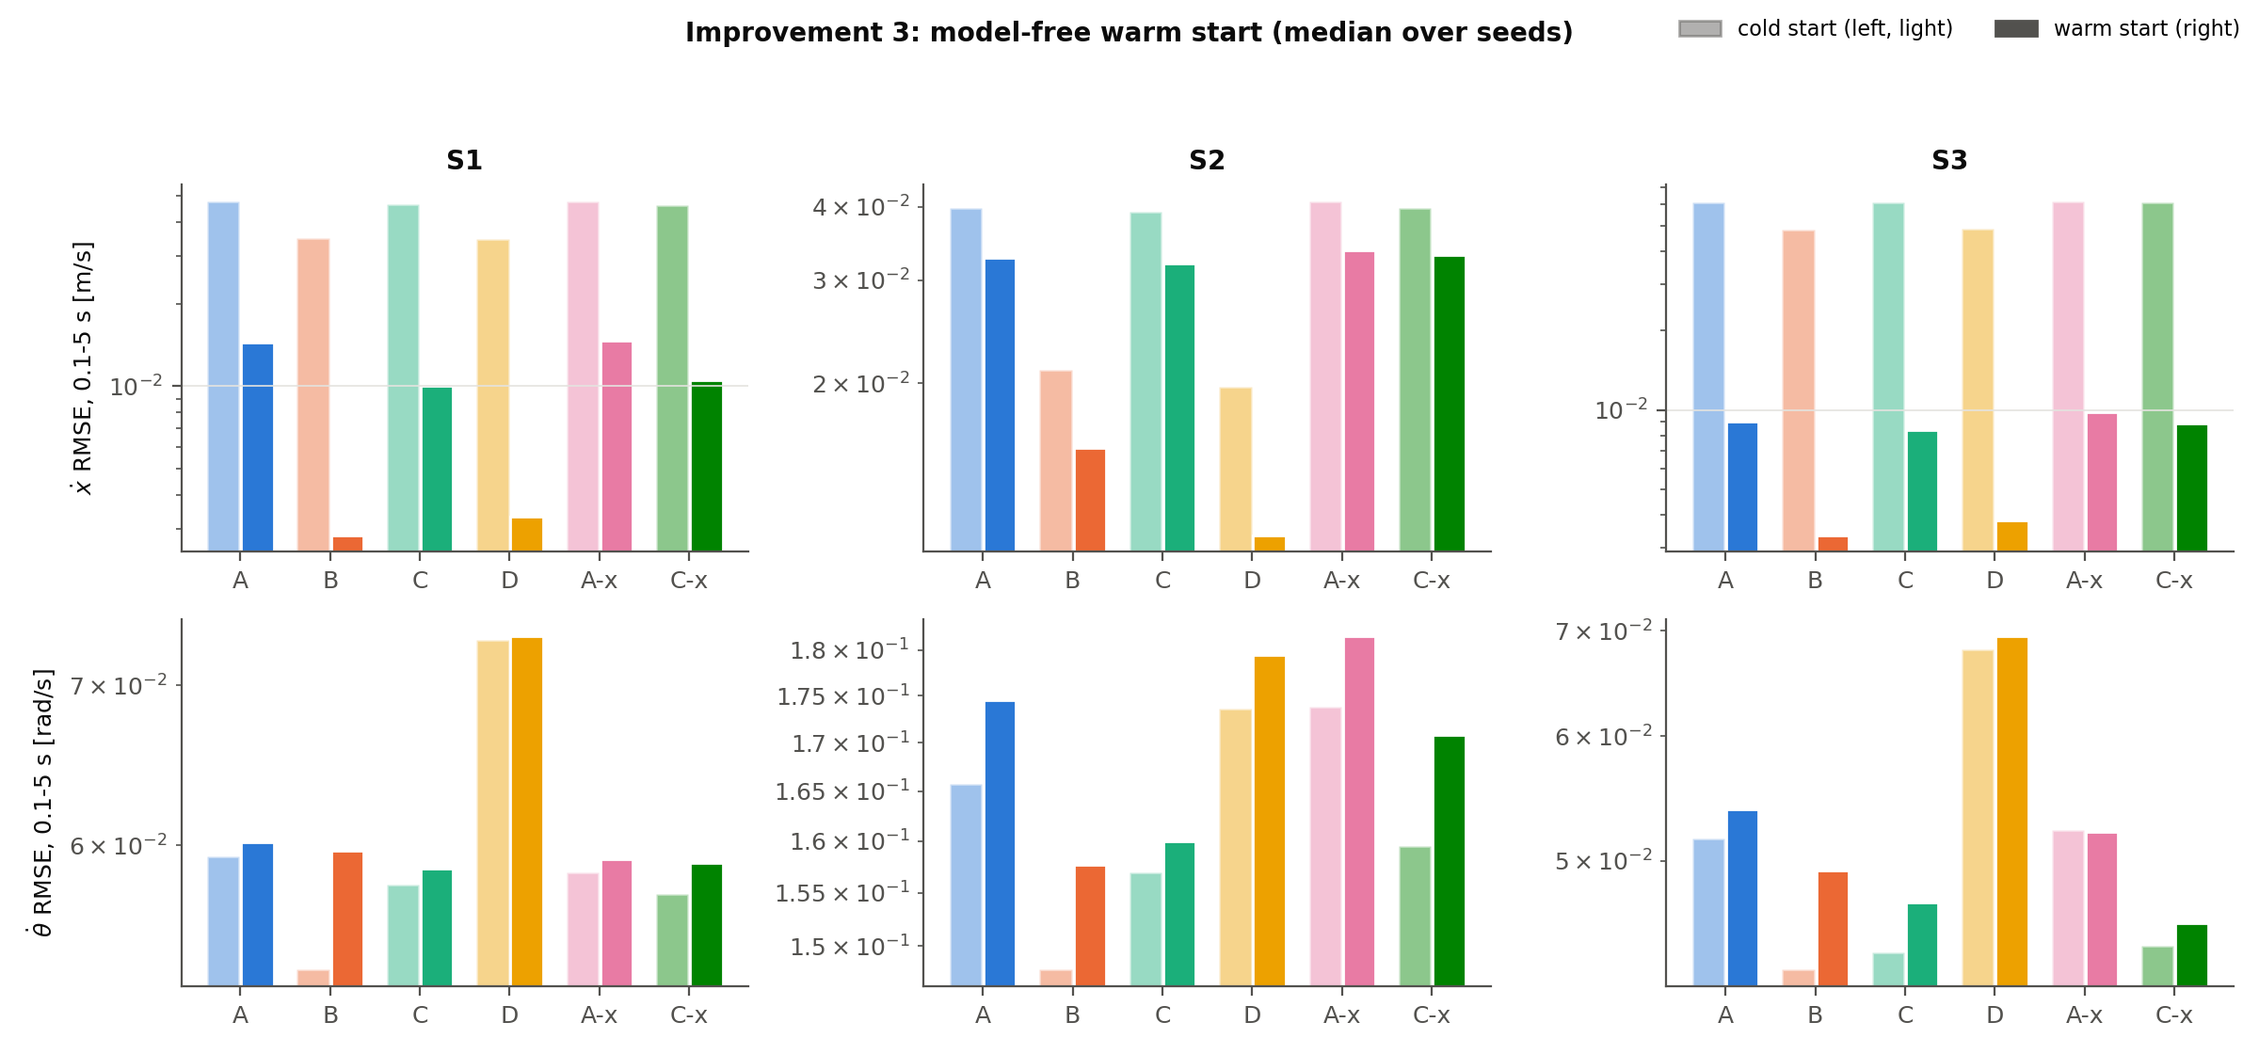
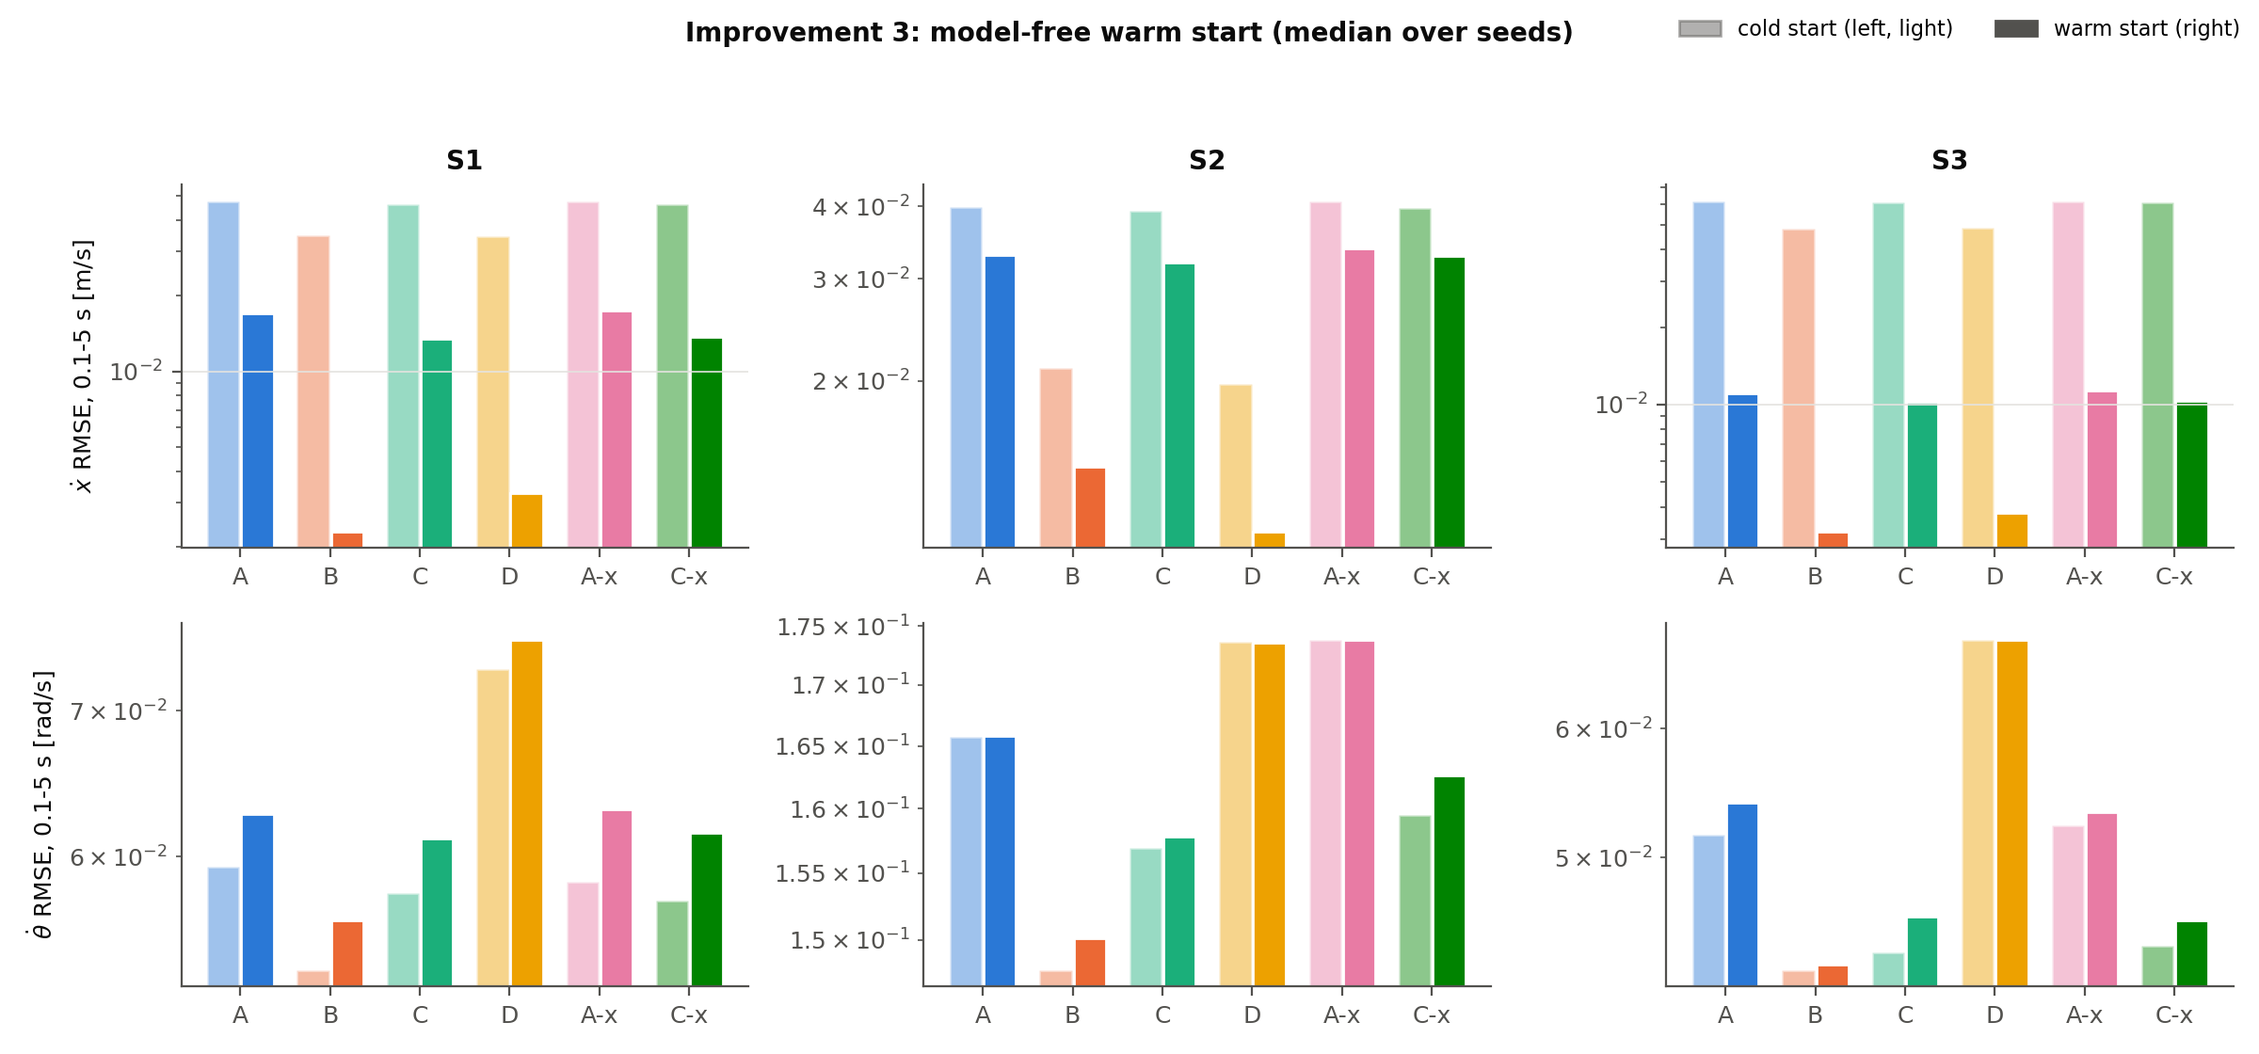
fix(benchmark): warm start as gated state injection; final warm-start results
- The warm start no longer resets the observer: it runs the observer from t = 0 and, at 0.1 s,
  injects the fitted position and velocity of each coordinate whose fitted velocity is
  significant (> 3 sigma from the fit residual), re-initializing only that coordinate's
  auxiliary filter. Other coordinates, LSTM memories and weights are untouched.
- Result (90 runs, 2 workers): cart velocity transient error 1.2-15x lower, peak 1.5-27x lower;
  pendulum neutral on S2/S3, 3-8 % worse on S1 (documented, with the design history of the
  three versions that did not work).
- --warm-only mode reruns only the warm-start runs and merges them into the saved results.

diff --git a/src/benchmark/warm_start.py b/src/benchmark/warm_start.py
@@ -1,21 +1,26 @@
 """
-Improvement 3: model-free warm start of any observer.
+Improvement 3: model-free velocity injection for any observer ("warm start").
 
-Every observer starts from q_hat(0) = y(0), q_dot_hat(0) = 0. When the plant is already moving
-at t = 0 (the drift-cancelling cart velocity of scenarios S1-S3, for example), the observer must
-first absorb that velocity error through its filter. The wrapper buffers the first `window`
-seconds of encoder data, fits a degree-`order` polynomial by least squares and evaluates it and
-its derivative at the LAST sample (causal Savitzky-Golay end-point estimate); the wrapped
-observer is then reset to [q_fit, q_dot_fit] and runs normally from the next sample on.
+Every observer starts from q_hat(0) = y(0), q_dot_hat(0) = 0. When a coordinate is already moving
+at t = 0 (the drift-cancelling cart velocity of scenarios S1-S3), the observer must first absorb
+that velocity error through its filter.
 
-Significance gate. A coordinate that starts at rest gains nothing from the fit and would only
-receive its noise (sigma_v = sigma_q ||c_1||, with sigma_q estimated from the fit residual). Each
-fitted velocity is therefore kept only if |q_dot_fit| > z sigma_v (default z = 3) and set to 0
-otherwise, the value an unwrapped observer starts from. During
-the buffering window the wrapper reports [y, 0], exactly what an unwrapped observer starts from.
+The wrapper runs the observer normally from the first sample and, in parallel, buffers the first
+`window` seconds of encoder data. At the end of the window it fits a degree-`order` polynomial by
+least squares and differentiates it at the last sample (causal Savitzky-Golay end-point estimate).
+For each coordinate the fitted position and velocity are injected into the observer's estimate only
+if the velocity is significant, |q_dot_fit| > z sigma_v, where sigma_v = sigma_q ||c_1|| and sigma_q is estimated
+from the fit residual. For an injected coordinate the auxiliary filter (p, nu), which by then
+encodes the velocity error the observer has been absorbing, is re-initialized exactly as at
+start-up (p = (alpha + k_r) q_tilde, nu = 0, i.e. eta = 0), so it does not keep "correcting" an
+error that the injection removed. Coordinates that fail the test are left exactly as the observer
+has them; LSTM memories and weights are never touched.
 
-The wrapper touches neither the observer's dynamics nor its adaptation, so every stability
-argument of the wrapped observer applies from the reset on.
+Design history (shared-benchmark README, Section 5): resetting the whole observer at the end of the
+window, with or without the significance test, helped the moving coordinate but made the resting
+one worse: the reset discarded the observer's first `window` seconds of adaptation and restarted
+its filter transient. Injecting only the significant velocities leaves every other observer state,
+filter state and weight untouched.
 """
 
 from __future__ import annotations
@@ -27,37 +32,59 @@ from src.benchmark.models import Observer
 from src.concurrent_learning.savitzky_golay import SavitzkyGolay
 
 
+def _state_attributes(observer: Observer) -> tuple[str, str, str]:
+    """(position estimate, velocity estimate, filter state p) attribute names."""
+    if hasattr(observer, "x2_hat"):                 # A / C (LbLSTMObserver)
+        return "x1_hat", "x2_hat", "p"
+    if hasattr(observer, "p_f"):                    # D (PIICLObserver)
+        return "q_hat", "q_dot_hat", "p_f"
+    if hasattr(observer, "q_dot_hat"):              # B (PILSTMObserver)
+        return "q_hat", "q_dot_hat", "p"
+    raise TypeError(f"{type(observer).__name__} exposes no velocity estimate.")
+
+
 class WarmStartObserver:
     def __init__(self, observer: Observer, dt: float, window: float = 0.1, order: int = 2, z_gate: float = 3.0) -> None:
         self.inner = observer
         self.z_gate = z_gate
         self.sg = SavitzkyGolay.from_duration(window, order, dt, evaluate_at="end")
+        self._pos_attr, self._vel_attr, self._p_attr = _state_attributes(observer)
         self._buf: List[np.ndarray] = []
         self.started = False
-        self.initial_estimate: np.ndarray | None = None
+        self.initial_estimate: np.ndarray | None = None    # fitted [q, q_dot] (interleaved)
+        self.injected: np.ndarray | None = None            # per coordinate: velocity injected?
+        self.sigma_v: np.ndarray | None = None
 
     def reset(self, initial_state: np.ndarray | None = None, reset_weights: bool = True) -> None:
+        self.inner.reset(initial_state, reset_weights)
         self._buf = []
         self.started = False
 
     def update(self, y: np.ndarray, u: float | np.ndarray, dt: float) -> np.ndarray:
         y = np.asarray(y, dtype=np.float64)
+        est = self.inner.update(y, u, dt)
         if self.started:
-            return self.inner.update(y, u, dt)
+            return est
         self._buf.append(y.copy())
         if len(self._buf) < self.sg.window:
-            return np.column_stack((y, np.zeros_like(y))).ravel()
+            return est
         Y = np.vstack(self._buf)
         q, qd = self.sg.apply(Y, 0), self.sg.apply(Y, 1)
-        # residual of the fitted polynomial -> measurement-noise estimate per coordinate
         tau = (np.arange(self.sg.window) - (self.sg.window - 1)) * self.sg.dt
         V = np.vander(tau, self.sg.order + 1, increasing=True)
         coef = np.linalg.lstsq(V, Y, rcond=None)[0]
         dof = max(self.sg.window - self.sg.order - 1, 1)
         sigma_q = np.sqrt(np.sum((Y - V @ coef) ** 2, axis=0) / dof)
-        self.sigma_v = sigma_q * self.sg.noise_gain(1)
-        qd = np.where(np.abs(qd) > self.z_gate * self.sigma_v, qd, 0.0)
+        sigma_v = sigma_q * self.sg.noise_gain(1)
+        inj = np.abs(qd) > self.z_gate * sigma_v
+        self.sigma_v, self.injected = sigma_v, inj
         self.initial_estimate = np.column_stack((q, qd)).ravel()
-        self.inner.reset(self.initial_estimate)
+        obs = self.inner
+        getattr(obs, self._pos_attr)[inj] = q[inj]      # the lagging position estimate as well
+        getattr(obs, self._vel_attr)[inj] = qd[inj]
+        cfg = obs.config  # type: ignore[attr-defined]
+        q_tilde = y - getattr(obs, self._pos_attr)
+        getattr(obs, self._p_attr)[inj] = (cfg.alpha + cfg.k_r) * q_tilde[inj]
+        obs.nu[inj] = 0.0  # type: ignore[attr-defined]
         self.started = True
-        return self.initial_estimate.copy()
+        return self.inner.state_estimate()  # type: ignore[attr-defined]

diff --git a/experiments/run_shared_benchmark.py b/experiments/run_shared_benchmark.py
@@ -180,6 +180,8 @@ def main() -> None:
     parser.add_argument("--workers", type=int, default=min(8, os.cpu_count() or 1))
     parser.add_argument("--no-plots", action="store_true")
     parser.add_argument("--plots-only", action="store_true", help="redraw the figures from the saved CSVs")
+    parser.add_argument("--warm-only", action="store_true",
+                        help="rerun only the warm-start runs and merge them into the saved CSVs (after a warm-start change)")
     args = parser.parse_args()
     res_dir = ROOT_DIR / "results" / "shared_benchmark"
     fig_dir = ROOT_DIR / "figures" / "shared_benchmark"
@@ -187,6 +189,9 @@ def main() -> None:
         runs = pd.read_csv(res_dir / "velocity_runs.csv")
         twins = pd.read_csv(res_dir / "held_out_twins.csv")
         make_figures(runs, twins, fig_dir)
+        return
+    if args.warm_only:
+        rerun_warm(args.seeds, args.workers, res_dir, fig_dir, plots=not args.no_plots)
         return
 
     jobs = [(s, m, seed, w) for s in SCENARIOS for m in MODELS for seed in range(args.seeds) for w in (False, True)]
@@ -242,6 +247,34 @@ def main() -> None:
     if not args.no_plots:
         make_figures(runs, twins, fig_dir)
     print(f"Results: {res_dir}")
+
+
+WARM_COLS = ["RMSE x_dot transient", "RMSE th_dot transient", "peak x_dot err 0.1-2 s", "peak th_dot err 0.1-2 s", "RMSE th_dot steady"]
+
+
+def warm_summary(runs: pd.DataFrame) -> pd.DataFrame:
+    wt = runs.groupby(["scenario", "model", "warm start"])[WARM_COLS].median().unstack("warm start")
+    for c in WARM_COLS:
+        wt[(c, "ratio")] = wt[(c, True)] / wt[(c, False)]
+    return wt
+
+
+def rerun_warm(seeds: int, workers: int, res_dir: Path, fig_dir: Path, plots: bool) -> None:
+    jobs = [(s, m, seed, True) for s in SCENARIOS for m in MODELS for seed in range(seeds)]
+    t0 = time.time()
+    with ProcessPoolExecutor(workers) as ex:
+        rows = [r for out in ex.map(job, jobs) for r in out]
+    print(f"{len(jobs)} warm-start runs in {time.time() - t0:.0f} s")
+    runs = pd.read_csv(res_dir / "velocity_runs.csv")
+    runs["warm start"] = runs["warm start"].astype(bool)
+    runs = pd.concat([runs[~runs["warm start"]], pd.DataFrame(rows)], ignore_index=True)
+    runs.to_csv(res_dir / "velocity_runs.csv", index=False)
+    wt = warm_summary(runs)
+    wt.to_csv(res_dir / "warm_start_summary.csv")
+    with pd.option_context("display.width", 250, "display.float_format", "{:.4f}".format):
+        print(wt[[(c, "ratio") for c in WARM_COLS]].to_string())
+    if plots:
+        make_figures(runs, pd.read_csv(res_dir / "held_out_twins.csv"), fig_dir)
 
 
 def make_figures(runs: pd.DataFrame, twins: pd.DataFrame, fig_dir: Path) -> None:

diff --git a/tests/test_shared_benchmark.py b/tests/test_shared_benchmark.py
@@ -96,8 +96,7 @@ def test_el_twin_with_true_parameters_is_exact() -> None:
 
 
 def test_warm_start_removes_the_initial_velocity_error() -> None:
-    p = PendulumParameters()
-    d = simulate("ramp", lambda t: 0.0, 1.0, np.array([0.0, -0.5, np.pi, 0.0]), 0.5, 1)
+    d = simulate("drift", lambda t: 0.0, 1.0, np.array([0.0, -0.5, np.pi, 0.0]), 0.5, 1)
     cold = make_observer("D", d, 0)
     warm = WarmStartObserver(make_observer("D", d, 0), DT)
     for o in (cold, warm):
@@ -107,19 +106,22 @@ def test_warm_start_removes_the_initial_velocity_error() -> None:
         e_cold.append(cold.update(d.meas[k], d.u[k], DT)[1] - d.state[k, 1])
         e_warm.append(warm.update(d.meas[k], d.u[k], DT)[1] - d.state[k, 1])
     k0 = warm.sg.window
-    assert warm.started and warm.initial_estimate is not None
-    assert abs(warm.initial_estimate[1] - d.state[k0 - 1, 1]) < 0.01
+    assert warm.started and warm.initial_estimate is not None and warm.injected is not None
+    assert warm.injected[0] and abs(warm.initial_estimate[1] - d.state[k0 - 1, 1]) < 0.01
     assert np.max(np.abs(e_warm[k0:])) < 0.1 * np.max(np.abs(e_cold[k0:]))
-    assert p.M > 0
 
 
-def test_warm_start_gate_keeps_a_resting_coordinate_at_zero() -> None:
-    """The pendulum starts at rest: its fitted velocity is noise and must be gated to 0."""
+def test_warm_start_leaves_a_resting_coordinate_untouched() -> None:
+    """The pendulum is at rest: its fitted velocity is noise, is not injected, and its estimate
+    evolves exactly as without the wrapper."""
     d = simulate("rest", lambda t: 0.0, 0.3, np.array([0.0, -0.5, np.pi, 0.0]), 1.0, 3)
+    cold = make_observer("D", d, 0)
     warm = WarmStartObserver(make_observer("D", d, 0), DT)
-    warm.reset()
+    for o in (cold, warm):
+        o.reset(np.array([d.meas[0, 0], 0.0, d.meas[0, 1], 0.0]))
     for k in range(warm.sg.window):
-        warm.update(d.meas[k], 0.0, DT)
-    assert warm.initial_estimate is not None
-    assert warm.initial_estimate[3] == 0.0                   # theta_dot gated
-    assert abs(warm.initial_estimate[1] + 0.5) < 0.01        # x_dot kept
+        ec = cold.update(d.meas[k], 0.0, DT)
+        ew = warm.update(d.meas[k], 0.0, DT)
+    assert warm.injected is not None and warm.injected[0] and not warm.injected[1]
+    assert ew[3] == ec[3]                                    # theta_dot untouched
+    assert abs(ew[1] + 0.5) < 0.01                           # x_dot injected

diff --git a/README.md b/README.md
@@ -146,46 +146,55 @@ input scale to 0 (the A-x and C-x variants).
 
 Every observer starts from $\hat q = y(0)$ and $\hat{\dot q} = 0$. In all three scenarios the
 cart starts moving, at the drift-cancelling velocity, while the pendulum starts at rest.
-`src/benchmark/warm_start.py` works as follows:
+`src/benchmark/warm_start.py` wraps any observer:
 
-1. **Buffer.** It holds the first 0.1 s of encoder data.
-2. **Fit.** It fits a quadratic and differentiates it at the last sample (a causal
-   Savitzky–Golay end-point estimate).
-3. **Gate.** It keeps each fitted velocity only if it exceeds 3σ of its own noise, estimated
-   from the fit residual.
-4. **Hand over.** It resets the wrapped observer to that state.
+1. **Run the observer normally from the first sample**, and buffer the first 0.1 s of encoder data.
+2. **Fit.** Fit a quadratic and differentiate it at the last sample (a causal Savitzky–Golay
+   end-point estimate).
+3. **Gate.** For each coordinate, test whether the fitted velocity is significant:
+   $|\dot q_{fit}| > 3\sigma_v$, with $\sigma_v$ taken from the fit residual.
+4. **Inject.** For significant coordinates only, overwrite the position and velocity estimates
+   with the fit, and re-initialize that coordinate's auxiliary filter exactly as at start-up
+   ($p = (\alpha + k_r)\tilde q$, $\nu = 0$).
 
-The wrapper never touches the observer's dynamics or adaptation, so every stability argument
-still holds from the reset on.
+Nothing else is touched: not the other coordinate, not the LSTM memories, not the weights. The
+wrapper amounts to a new initial condition for part of the observer state, so every stability
+argument still applies.
 
-**Status.** The benchmark numbers below come from the version *without* step 3, the
-significance gate. They show why the gate was added. The gated version is implemented and
-unit-tested (`test_warm_start_gate_keeps_a_resting_coordinate_at_zero`), but its 5-seed rerun
-was stopped before it finished, to spare the laptop. To reproduce it, run
-`python experiments/run_shared_benchmark.py --workers 2`.
+**Design history (what did not work).** Each earlier version was benchmarked on all 90
+warm-start runs:
 
-Warm / cold ratio of the median over 5 seeds, ungated version (below 1 = warm start is better):
+| Version | Cart channel | Pendulum channel |
+|:---|:---|:---|
+| (a) Reset the whole observer to the fit at 0.1 s | Much better | Worse: θ̇ RMSE up to +16 %, peak up to +27 %. The reset threw away 0.1 s of adaptation and restarted the filter transient, and the fitted θ̇ is noise when the pendulum is at rest. |
+| (b) As (a), plus the 3σ significance gate | Much better | Unchanged from (a), peak up to +33 %. By 0.1 s the pendulum is already moving, so the gated zero was wrong too. |
+| (c) Inject the velocity only, keeping the observer running | The error re-grew to about 0.2 m/s | Filter states still encoded the old error, and the position estimate still lagged. |
+| **(d) Current: inject position and velocity, re-initialize that coordinate's filter** | **Error stays below 0.02 m/s after injection** | See the table below |
 
-| | ẋ RMSE 0.1–5 s | peak ẋ error 0.1–2 s | θ̇ RMSE 0.1–5 s | peak θ̇ error 0.1–2 s | steady θ̇ RMSE |
+**Result of (d).** Warm / cold ratio of the median over 5 seeds (below 1 = warm start is
+better):
+
+| | ẋ RMSE 0.1–5 s | Peak ẋ error 0.1–2 s | θ̇ RMSE 0.1–5 s | Peak θ̇ error 0.1–2 s | Steady θ̇ RMSE |
 |:---|:---:|:---:|:---:|:---:|:---:|
-| S1 (all 6 models) | 0.08–0.31 | 0.03–0.16 | 1.00–1.12 | 1.02–1.13 | 0.93–1.18 |
-| S2 | 0.56–0.83 | 0.25–0.65 | 1.02–1.07 | 1.00–1.07 | 0.93–1.07 |
-| S3 | 0.07–0.16 | 0.04–0.08 | 1.00–1.16 | 1.13–1.27 | 1.00–1.04 |
+| S1 (all 6 models) | 0.07–0.37 | 0.04–0.21 | 1.03–1.08 | 1.12–1.14 | 0.90–1.07 |
+| S2 | 0.56–0.83 | 0.27–0.65 | 1.00–1.02 | 0.98–1.00 | 0.95–1.00 |
+| S3 | 0.07–0.18 | 0.05–0.11 | 1.00–1.05 | 1.00 | 0.99–1.01 |
 
-- **Cart channel: large gains.** The ẋ transient error falls up to 14×, and the peak up to 38×.
-  The cart's initial velocity (−0.25 to −0.5 m/s) is exactly what the fit recovers.
-- **Pendulum channel: slightly worse, 0–27 %.** The pendulum starts at rest in every
-  scenario, so the fit can only add its own velocity noise, about 0.07 rad/s at ±0.5°. The
-  significance gate is meant to remove exactly this: a resting coordinate keeps 0, and a moving
-  one (|v| > 3σ_v) keeps its fit.
+- **Cart channel: large, consistent gains.** The transient error falls 1.2–15× and the peak
+  1.5–27×. B and D gain most, because once their state is right their models hold it.
+- **Pendulum channel: neutral on S2 and S3, slightly worse on S1.** On S1 it is 3–8 % worse
+  (peak 12–14 %). The pendulum is not reset there, so the loss is indirect. My best explanation
+  is that the large initial cart error was acting as free early excitation for the adaptation
+  laws, and removing it slows the first second of model learning. It is a real trade-off.
 - **What the warm start cannot fix.** The pendulum's early transient (peaks 0.12–0.53 rad/s)
-  comes from the *unlearned model*, not the initial state. Only faster model learning reduces
-  it, and no approach here does that within the first 2 s.
-- **Steady-state estimation is unaffected**, as expected from a one-time reset.
+  comes from the *unlearned model*. Only faster model learning reduces it, and no approach here
+  does that within the first 2 s.
+- **Steady state is unaffected.** The largest difference is 10 %, in C-x on S1; everything else
+  is within ±8 %.
 
 ![Warm start](figures/shared_benchmark/warm_start.png)
 
-*Ungated version (see Status above). Each panel shows cold start (light) against warm start (solid), per model.*
+*Version (d). Each panel shows cold start (light) against warm start (solid), per model.*
 
 ## 6. Reproducing the results
 
@@ -193,15 +202,16 @@ Warm / cold ratio of the median over 5 seeds, ungated version (below 1 = warm st
 python -m pytest -q                                     # 113 tests
 python experiments/run_shared_benchmark.py --seeds 5    # 180 runs, about 15 min on 8 cores
 python experiments/run_shared_benchmark.py --plots-only # redraw figures from results/shared_benchmark/*.csv
+python experiments/run_shared_benchmark.py --warm-only --workers 2  # rerun only the warm-start runs (about 9 min)
 ```
 
 | File | Contents |
 |:---|:---|
 | `src/benchmark/scenarios.py` | S1–S3 (each branch's home scenario) and the held-out inputs H1–H4 |
 | `src/benchmark/models.py` | Model registry (A, A-x, B, C, C-x, D), shared normalization, twin adapters, prediction metrics |
-| `src/benchmark/warm_start.py` | Significance-gated warm start (improvement 3) |
+| `src/benchmark/warm_start.py` | Significance-gated state injection (improvement 3) |
 | `experiments/run_shared_benchmark.py` | The benchmark; CSVs in `results/shared_benchmark/`, figures in `figures/shared_benchmark/` |
-| `tests/test_shared_benchmark.py` | Harness tests (twin exactness with true parameters, x-free inputs, warm start and its gate) |
+| `tests/test_shared_benchmark.py` | Harness tests (twin exactness with true parameters, x-free inputs, warm-start injection and gate) |
 
 ## 7. Caveats
 
